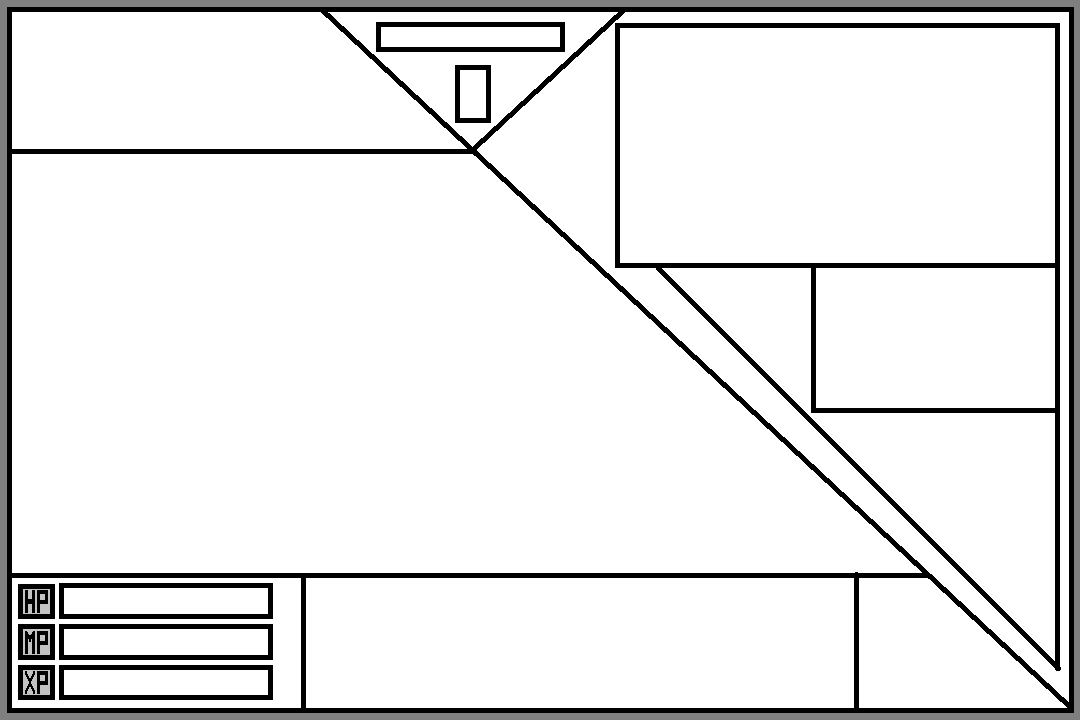
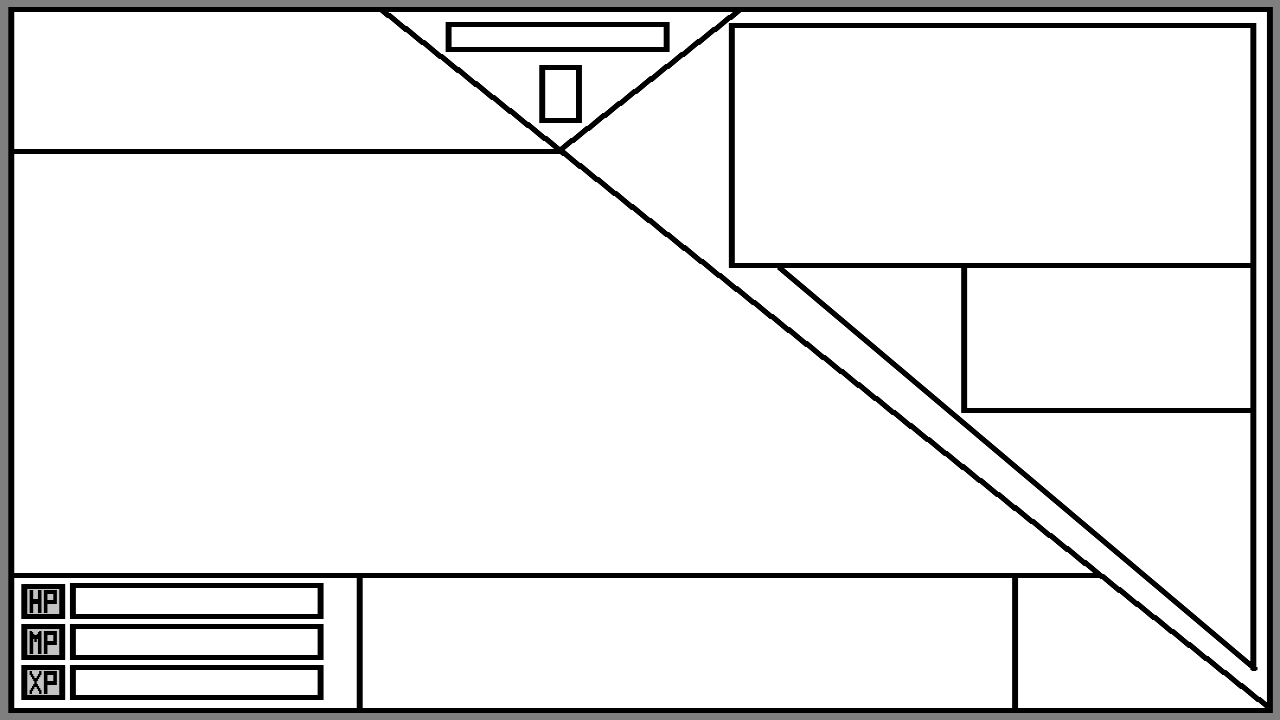
Stage 3 Don

diff --git a/main.py b/main.py
@@ -18,7 +18,7 @@ clock = pygame.time.Clock()
 
 # Loading Images and converting them
 titleScreen = pygame.image.load('Images/Title Screen.png').convert()
-mainScreen = pygame.transform.scale(pygame.image.load('Images/UI.png').convert(), (1280, 720))
+mainScreen = pygame.image.load('Images/UI.png').convert()
 Blue = pygame.image.load('Images/Blue.png').convert()
 Green = pygame.image.load('Images/Green.png').convert()
 Orange = pygame.image.load('Images/Orange.png').convert()
@@ -33,31 +33,60 @@ resolution = 1
 smallFont = pygame.font.SysFont('Arial', 23)
 largeFont = pygame.font.SysFont('Arial', 36)
 playerLocation = [-1, -1]
+floor = [[0, 0, 0, 0, 0, 0], [0, 0, 0, 0, 0, 0], [0, 0, 0, 0, 0, 0]]
+finalAttack = 0
+enemyFinalAttack = 0
 
 
-# Creating the main class for entities in the game
+# --------------------------------CLASSES------------------------------------------------------------------------------#
 class Entity:
 
     # Initialising the Class and setting each instance's attributes
-    def __init__(self, HPMax, MPMax, Strength, Magic, Defence, Resistance, Speed):
-        self.HPMax, self.HP = HPMax
-        self.MPMax, self.MP = MPMax
+    def __init__(self, HPMax, MPMax, Strength, Magic, Defence, Resistance, Name):
+        self.HPMax = self.HP = HPMax
+        self.MPMax = self.MP = MPMax
         self.Strength = Strength
         self.Magic = Magic
         self.Defence = Defence
         self.Resistance = Resistance
-        self.Speed = Speed
+        self.Name = Name
 
-    # Attack function [WIP]
     def Attack(self):
+        global enemyFinalAttack
+        enemyFinalAttack = self.Strength
+
+    def Defend(self):
+        self.Defence += 5
         pass
 
 
 class Player(Entity):
-    def __init__(self, HPMax, MPMax, Strength, Magic, Defence, Resistance, Speed):
-        super().__init__(HPMax, MPMax, Strength, Magic, Defence, Resistance, Speed)
+    def __init__(self, HPMax, MPMax, Strength, Magic, Defence, Resistance, Name):
+        super().__init__(HPMax, MPMax, Strength, Magic, Defence, Resistance, Name)
+
+    def Attack(self):
+        global finalAttack
+        finalAttack = self.Strength
+
+    def Defend(self):
+        global finalAttack
+        finalAttack = -1
+        self.Defence += 5
+
+    def Ability1(self):
+        pass
+
+    def Ability2(self):
+        pass
+
+    def Ability3(self):
+        pass
+
+    def Ability4(self):
+        pass
 
 
+# ---------------------------------ADMIN FUNCTIONS---------------------------------------------------------------------#
 # Function for creating buttons
 def button(start_x, start_y, width, height, function, text):
     if ((start_x / 1280) * world.get_width()) + ((width / 1280) * world.get_width()) > mouse[0] > \
@@ -74,7 +103,7 @@ def button(start_x, start_y, width, height, function, text):
 
     else:
         pygame.draw.rect(frame, (0, 255, 0), (start_x, start_y, width, height))
-    title = smallFont.render(text, True, (0, 0, 255))
+    title = smallFont.render(text, True, (0, 0, 0))
     frame.blit(title, (start_x, (start_y + (height / 2))))
 
 
@@ -147,7 +176,7 @@ def render_Map(rooms):
                 elif rooms[i][j] == 4:
                     pygame.draw.rect(frame, [0, 0, 255], [60.5 + (j * 43), 17 + (i * 45), 40, 40], True)
 
-                if click[0] and playerLocation[1] == j-1 and gameState == 1:
+                if click[0] and playerLocation[1] == j - 1 and gameState == 1:
                     playerLocation = [i, j]
                     print(playerLocation)
             else:
@@ -162,6 +191,19 @@ def render_Map(rooms):
         pygame.draw.rect(frame, [0, 255, 0], [60.5 + (playerLocation[1] * 43), 17 + (playerLocation[0] * 45), 40, 40])
 
 
+# Character Creation Function
+def characterCreation():
+    User = Player(150, 50, 10, 10, 5, 5, "Player")
+    return User
+
+
+# Enemy Creation Function
+def enemyCreation():
+    enemy = Entity(50, 50, 7, 2, 2, 0, "Golbin")
+    return enemy
+
+
+# -------------------------------MAIN GAME FUNCTIONS-------------------------------------------------------------------#
 # Opening Screen for the Game
 def main_Menu():
     global mouse, click, world
@@ -197,12 +239,63 @@ def main_Menu():
 
 # Main game state
 def main_Game():
-    global gameState, world, mouse, click, playerLocation
+    global gameState, world, mouse, click, playerLocation, floor
     gameState = 1
+
+    playerCharacter = characterCreation()
+
     floor = generate_Floor()
     print(floor)
     playerLocation = [-1, -1]
+
     while gameState == 1:
+
+        mouse = pygame.mouse.get_pos()
+        click = pygame.mouse.get_pressed(num_buttons=5)
+
+        set_Background()
+        render_Map(floor)
+
+        pygame.mouse.set_cursor(*pygame.cursors.arrow)
+
+        playerHealth = smallFont.render(str(playerCharacter.HP), True, (0, 0, 0))
+        frame.blit(playerHealth, (76.0, 588.0))
+        playerMaxHealth = smallFont.render(str(playerCharacter.HPMax), True, (0, 0, 0))
+        frame.blit(playerMaxHealth, (197.0, 588.0))
+        playerMana = smallFont.render(str(playerCharacter.MP), True, (0, 0, 0))
+        frame.blit(playerMana, (76.0, 629.0))
+        playerMaxMana = smallFont.render(str(playerCharacter.MPMax), True, (0, 0, 0))
+        frame.blit(playerMaxMana, (197.0, 629.0))
+
+        for event in pygame.event.get():
+            if event.type == QUIT:
+                pygame.quit()
+                sys.exit()
+            if event.type == KEYDOWN:
+                if event.key == K_ESCAPE:
+                    pygame.quit()
+                    sys.exit()
+                if event.key == K_b:
+                    combat(playerCharacter, enemyCreation())
+                if event.key == K_f:
+                    pygame.display.toggle_fullscreen()
+
+        redraw_World()
+        pygame.display.update()
+        clock.tick(60)
+
+
+# Function for the combat encounters in the game
+def combat(player, enemy):
+    global gameState, world, mouse, click, playerLocation, floor, finalAttack, enemyFinalAttack
+    basePlayerDefence = player.Defence
+    baseEnemyDefence = enemy.Defence
+    enemyDamageText = smallFont.render("", True, (0, 0, 0))
+    playerDamageText = smallFont.render("", True, (0, 0, 0))
+    while enemy.HP > 0 and player.HP > 0:
+
+        finalAttack = 0
+        enemyFinalAttack = 0
 
         mouse = pygame.mouse.get_pos()
         click = pygame.mouse.get_pressed(num_buttons=5)
@@ -222,6 +315,52 @@ def main_Game():
                     sys.exit()
                 if event.key == K_f:
                     pygame.display.toggle_fullscreen()
+
+        playerHealth = smallFont.render(str(player.HP), True, (0, 0, 0))
+        frame.blit(playerHealth, (76.0, 588.0))
+        playerMaxHealth = smallFont.render(str(player.HPMax), True, (0, 0, 0))
+        frame.blit(playerMaxHealth, (197.0, 588.0))
+        playerMana = smallFont.render(str(player.MP), True, (0, 0, 0))
+        frame.blit(playerMana, (76.0, 629.0))
+        playerMaxMana = smallFont.render(str(player.MPMax), True, (0, 0, 0))
+        frame.blit(playerMaxMana, (197.0, 629.0))
+
+        enemyName = smallFont.render(str(enemy.Name), True, (0, 0, 0))
+        frame.blit(enemyName, (371.0, 588.0))
+        enemyHealth = smallFont.render(str(enemy.HP), True, (0, 0, 0))
+        frame.blit(enemyHealth, (371.0, 629.0))
+        enemyMaxHealth = smallFont.render(str(enemy.HPMax), True, (0, 0, 0))
+        frame.blit(enemyMaxHealth, (492.0, 629.0))
+
+        frame.blit(enemyDamageText, (17.5, 160.0))
+        frame.blit(playerDamageText, (17.5, 180.0))
+
+        button(740, 33, 140, 55, player.Attack, "Attack")
+        button(740, 92, 140, 55, player.Ability1, "Ability1")
+        button(740, 151, 140, 55, player.Ability2, "Ability2")
+        button(884, 33, 140, 55, player.Ability3, "Ability3")
+        button(884, 92, 140, 55, player.Ability4, "Ability4")
+        button(884, 151, 140, 55, player.Defend, "Defend")
+
+        if finalAttack != 0:
+
+            finalAttack -= enemy.Defence
+            if finalAttack < 0:
+                finalAttack = 0
+            enemy.HP -= finalAttack
+            enemyDamageText = smallFont.render("You did " + str(finalAttack) + " damage to " + enemy.Name, True,
+                                               (0, 0, 0))
+
+            enemy.Attack()
+            enemyFinalAttack -= player.Defence
+            if enemyFinalAttack < 0:
+                enemyFinalAttack = 0
+            player.HP -= enemyFinalAttack
+            playerDamageText = smallFont.render("You took " + str(enemyFinalAttack) + " damage from " + enemy.Name,
+                                                True, (0, 0, 0))
+
+        player.Defence = basePlayerDefence
+        enemy.Defence = baseEnemyDefence
 
         redraw_World()
         pygame.display.update()
